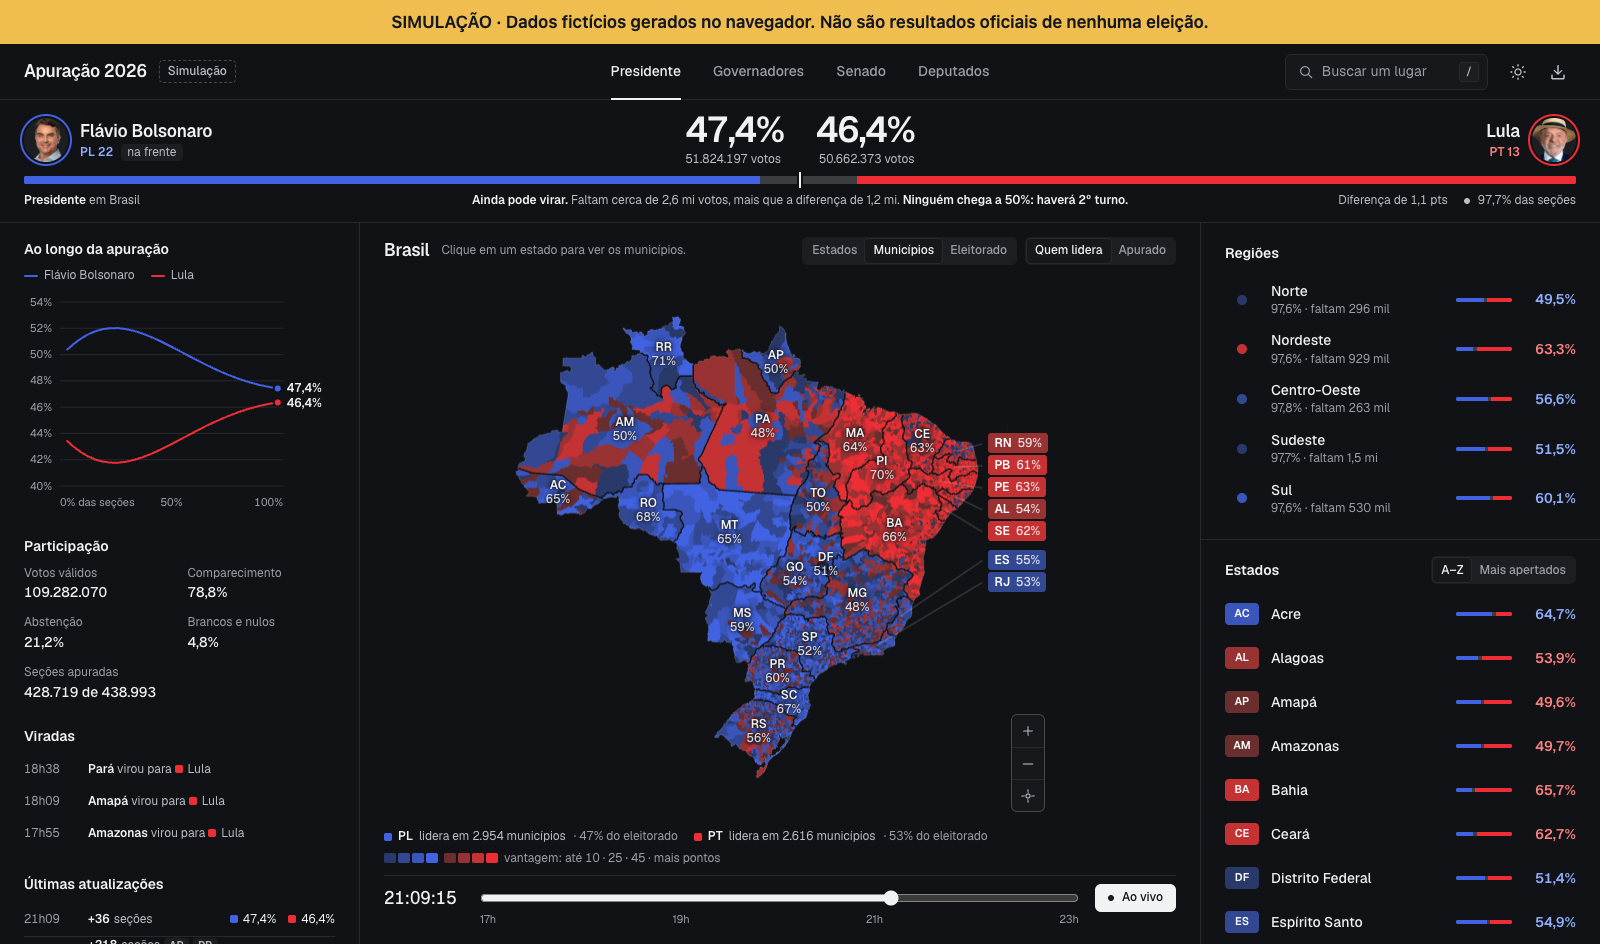
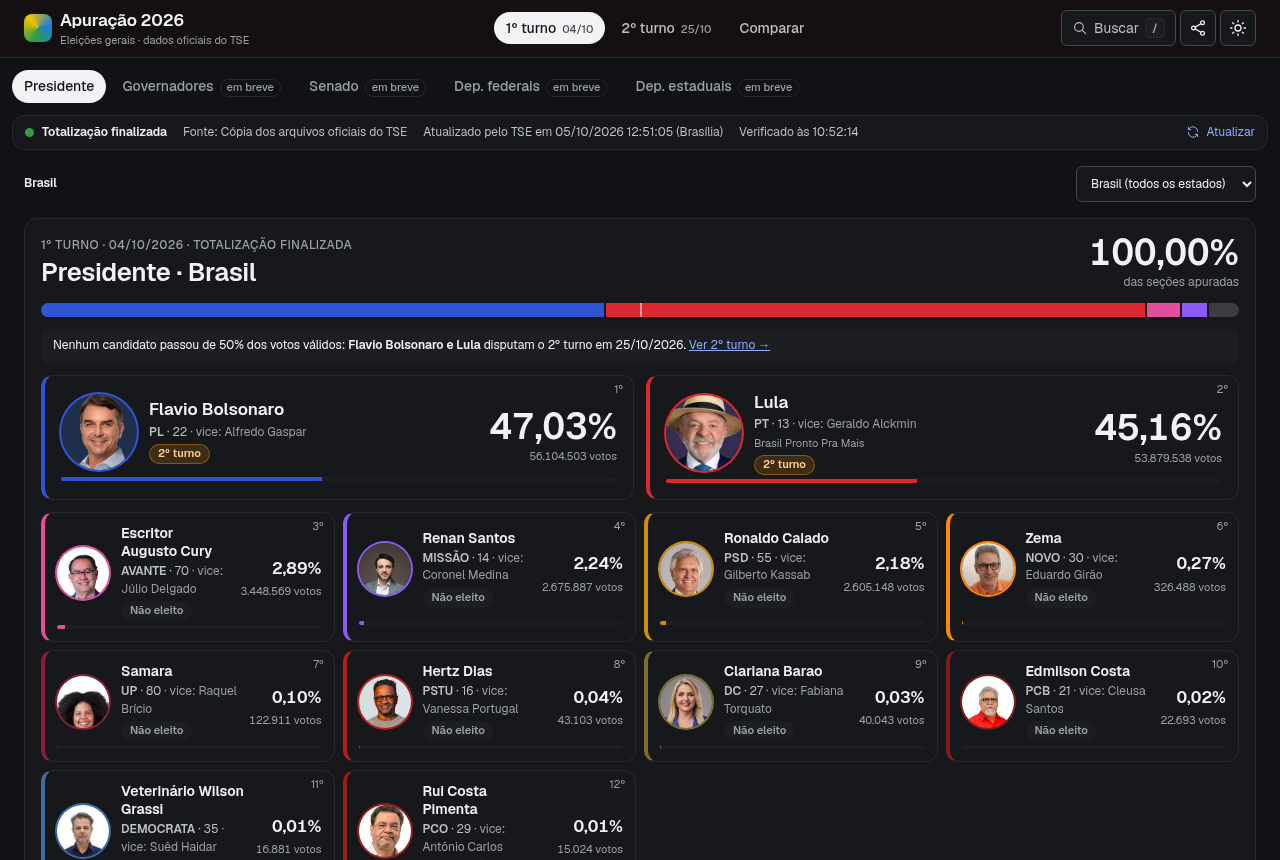
Publicação: Pages com atualização opcional dos dados do TSE e README novo
- workflow pode baixar os dados antes do build (manual ou a cada 20 min na noite do 2º turno), sem commitar no git
- roda os testes antes de publicar
- scripts npm: dados, dados:2turno, verificar; preview na porta 8080

diff --git a/README.md b/README.md
@@ -1,128 +1,101 @@
-# open-apuracao-brazil
+# Apuração 2026
 
-![Painel de apuração com o mapa do Brasil por município, placar, gráfico da apuração e lista de estados](docs/screenshot.png)
+Site estático (GitHub Pages) com os **resultados oficiais das eleições gerais de 2026**, lidos dos arquivos públicos do
+Tribunal Superior Eleitoral em [resultados.tse.jus.br](https://resultados.tse.jus.br). Nada é estimado ou simulado:
+quando o TSE ainda não publicou um resultado, o site diz isso e não mostra números.
 
-Painel interativo de apuração eleitoral do Brasil: um mapa navegável por estado, município e zona eleitoral, com placar, linha do tempo e andamento da contagem.
+Publicado em: https://alexandreprass.github.io/apuracao-tse-2026/
 
-> [!WARNING]
-> **Todos os resultados são simulados.** Votos, percentuais, comparecimento e ritmo de apuração são gerados no navegador por um modelo determinístico. O projeto não consulta o TSE nem qualquer serviço eleitoral, e nada aqui representa o resultado de uma eleição real. Os nomes de candidatos servem só para dar forma à interface.
+## O que tem (etapa 1 · Presidente)
 
-## O que tem
+- **1º turno (04/10/2026)** com os números oficiais finais: votos e percentual de cada um dos 12 candidatos, foto, número,
+  partido, coligação, vice e situação (2º turno / não eleito).
+- **Apuração e participação:** % de seções apuradas, eleitorado, comparecimento, abstenção, válidos, brancos e nulos.
+- **Mapa interativo** do Brasil por estado e, dentro de cada estado, por município (5.570 municípios), colorido pelo partido
+  de quem lidera e pela vantagem, ou pelo % apurado. Clique num estado ou município para abrir o resultado dele.
+- **Tabelas** por estado (com o **exterior separado**) e por município, com busca, filtro por região ou partido e ordenação.
+- **Votos por região**, estados vencidos por candidato.
+- **2º turno (25/10/2026)** pronto: mostra os finalistas, contagem regressiva e confere o TSE sozinho; quando sai o primeiro
+  boletim, os votos aparecem e passam a se atualizar a cada 30 s (com gráfico da evolução desde que a página foi aberta).
+- **Busca** (tecla `/`) por candidato, número, estado, município ou “exterior”; **compartilhar** (link + resumo);
+  **tema claro/escuro**; links diretos para qualquer recorte.
+- Governadores, Senado, Deputados e Comparações aparecem como “em breve” (próximas etapas). Os arquivos oficiais desses
+  cargos já são baixados pelo script de dados.
 
-- **Mapa em três níveis.** Brasil, os municípios de um estado e as zonas eleitorais de um município (as 57 da capital paulista, por exemplo). São 5.570 municípios desenhados em Canvas 2D, com zoom, arraste e pinça.
-- **Modos de mapa.** Recorte por estados, por municípios ou por eleitorado (um círculo por município, com área proporcional ao número de eleitores). Cor por quem lidera e com que vantagem, ou por quanto já foi apurado.
-- **Placar do recorte aberto.** Mostra sempre o lugar que você está vendo e responde "ainda pode virar?" comparando os votos que faltam com a diferença atual. Para presidente, diz também se haverá 2º turno.
-- **Linha do tempo.** Volte a qualquer minuto entre 17h e 23h, ou acompanhe "ao vivo" a simulação avançando.
-- **Andamento.** Gráfico do percentual de cada candidato conforme as seções entram, participação, estados que viraram de lado e os últimos boletins. Clicar num ponto do gráfico leva o mapa àquele momento.
-- **Busca** por estado ou município (tecla `/`), **tema claro e escuro** e **download do mapa** em PNG.
-- **Tudo na URL.** Lugar, cargo, horário e modo do mapa fazem parte do link, e o botão voltar do navegador sobe um nível no mapa.
-- **Responsivo.** Três colunas em telas largas, mapa e painel com abas em telas médias, e uma gaveta sobre o mapa no celular. No desktop a página não rola: o mapa ocupa a altura disponível.
+## Como os dados chegam
+
+| Turno | Fonte primária | Reserva |
+| --- | --- | --- |
+| 1º turno (finalizado) | cópia dos arquivos oficiais em `public/data/tse/1/` | TSE ao vivo |
+| 2º turno | TSE ao vivo (o servidor do TSE libera CORS para qualquer origem) | cópia em `public/data/tse/2/`, se existir |
+
+- Para forçar a fonte, use `?fonte=tse` ou `?fonte=local` no fim do endereço (ex.: `#/1turno/presidente?fonte=tse`).
+- Arquivos usados (padrão do TSE para 2026): `oficial/ele2026/<eleição>/dados/<uf>/<uf>-c<cargo>-e<eleição>-u.json`.
+  Eleições: 6257 (presidente, 1º turno), 6258 (presidente, 2º turno), 6259/6260 (cargos estaduais). Cargos: 1 presidente,
+  3 governador, 5 senador, 6 dep. federal, 7 dep. estadual, 8 dep. distrital. Fotos: `.../6257/fotos/br/<sqcand>.jpeg`.
+- Antes de pedir os resultados de um turno, o site consulta `oficial/comum/config/ele-c.json` para saber se o TSE já
+  configurou aquela eleição (evita dezenas de pedidos com erro 404).
+- O horário exibido (“Atualizado pelo TSE em…”) é o da última totalização informada pelo TSE, em horário de Brasília.
+
+### Atualizar a cópia local
+
+```sh
+npm run dados          # 1º turno: todos os cargos + presidente por município (~5.600 arquivos, ~2 min)
+npm run dados:2turno   # 2º turno (presidente e governadores), quando o TSE publicar
+npm run verificar      # compara a cópia com o TSE ao vivo (Brasil, exterior, 6 UFs, 4 capitais) e com as somas
+```
+
+O workflow `.github/workflows/pages.yml` também pode rodar o download antes de publicar: manualmente (campo
+“atualizar_dados”) e automaticamente na noite do 2º turno, a cada 20 minutos (no máximo 3 publicações por hora). Os dados
+vão só no artefato publicado; **nada é commitado no git**, para o histórico não crescer.
 
 ## Como rodar
 
-Requisitos: [Node.js](https://nodejs.org) 20.19 ou mais recente (exigência do Vite 7) e npm.
+Requisitos: Node.js 20.19+ e npm.
 
 ```sh
-git clone https://github.com/bpinheiroms/open-apuracao-brazil.git
-cd open-apuracao-brazil
-npm install
-npm run dev
+npm ci
+npm run dev        # desenvolvimento: http://127.0.0.1:5173/apuracao-tse-2026/
+npm test           # testes (Node, sem navegador)
+npm run build      # gera o site em dist/
+npm run preview    # serve dist/ em http://127.0.0.1:8080/apuracao-tse-2026/
 ```
 
-O Vite imprime o endereço local, normalmente http://127.0.0.1:5173. Não há variáveis de ambiente, chaves de API nem backend: depois de carregar os arquivos de `public/`, tudo roda no navegador.
+O caminho base `/apuracao-tse-2026/` (de `vite.config.js`) é o mesmo do GitHub Pages.
 
-| Comando | O que faz |
-| --- | --- |
-| `npm run dev` | Servidor de desenvolvimento com recarga automática |
-| `npm run build` | Gera o site estático em `dist/` |
-| `npm run preview` | Serve o conteúdo de `dist/` para conferência |
-| `npm test` | Roda os testes com o executor nativo do Node |
-
-O resultado de `npm run build` é um site estático e pode ser publicado em qualquer hospedagem de arquivos. Os caminhos são absolutos (`/data/...`, `/fonts/...`), então o site precisa ficar na raiz do domínio; para publicar numa subpasta, configure `base` no Vite.
-
-## Como usar
-
-- Clique em um estado para abrir seus municípios e em um município para abrir o recorte dele. O botão com seta acima do mapa, a tecla `Esc` e o voltar do navegador sobem um nível.
-- Acima do mapa ficam os controles de recorte (Estados, Municípios, Eleitorado) e de cor (Quem lidera, Apurado).
-- Arraste para mover. Use `+`/`−`, a roda do mouse ou a pinça para aproximar.
-- Arraste a linha do tempo para mudar o horário; "Ao vivo" volta à simulação em andamento.
-- `/` abre a busca; setas e `Enter` escolhem um resultado.
-
-### Formato da URL
+## Endereços
 
 ```
-/#SP/3550308/12?cargo=senado&hora=20h15&mapa=municipios&cor=apurado
+#/1turno/presidente                 Brasil
+#/1turno/presidente/SP              São Paulo e seus municípios
+#/1turno/presidente/SP/3550308      município (código IBGE)
+#/1turno/presidente/ZZ              exterior
+#/2turno/presidente                 2º turno
+#/sobre                             sobre os dados
 ```
-
-| Parte | Significado | Padrão |
-| --- | --- | --- |
-| `SP` | Estado aberto (sigla da UF) | Brasil |
-| `3550308` | Município aberto (código do IBGE) | nenhum |
-| `12` | Zona eleitoral selecionada | nenhuma |
-| `cargo` | `presidente`, `governadores`, `senado` ou `deputados` | `presidente` |
-| `hora` | Horário da linha do tempo, de `17h00` a `23h00` | ao vivo |
-| `mapa` | `estados`, `municipios` ou `eleitorado` | `estados` |
-| `cor` | `lider` ou `apurado` | `lider` |
-
-## Como a simulação funciona
-
-Os números saem de `src/data/mocks.js`, sem aleatoriedade: o mesmo cargo e o mesmo minuto produzem sempre o mesmo resultado.
-
-- Cada estado tem um percentual-alvo para o primeiro candidato. Os municípios variam em torno dele a partir de um hash do código do município, e uma calibração ajusta o conjunto até o estado bater no alvo.
-- A apuração segue uma curva que avança rápido no começo e tem uma cauda longa. Cada município conta num ritmo próprio, e cerca de 1 em 14 atrasa bastante.
-- As primeiras seções pendem para um dos lados e essa inclinação some até o fim da contagem. É o que dá movimento ao gráfico e faz alguns estados virarem.
-- Os totais se conservam: a soma das zonas dá o município, a dos municípios dá o estado, e a dos estados dá o Brasil. Os testes verificam isso.
-- As quatro abas de cargo são cenários diferentes do mesmo modelo, com os mesmos dois candidatos. Não representam candidaturas reais para cada cargo.
-
-As zonas eleitorais são **áreas aproximadas** a partir dos locais de votação, dentro dos limites municipais. Não são limites oficiais do TSE.
 
 ## Organização do código
 
-Preact com [htm](https://github.com/developit/htm) (sem JSX nem etapa de compilação de templates), CSS puro e Canvas 2D, empacotados com Vite.
-
 ```
-index.html             página única; aplica o tema antes da primeira pintura
-src/
-  main.js              carrega a geometria e monta o app (ou a tela de erro)
-  App.js               estado da página e composição das áreas
-  components/          TopBar, Scoreboard, MapStage, MapModes, Legend, Timeline, Insights,
-                       TrendChart, UpdatesFeed, SidePanel, PlaceRow, BackButton, SearchDialog, Icon
-  hooks/               useRoute (URL), useClock, useHistory (parciais anteriores), useTheme,
-                       useHotkey, useMediaQuery, useWidth
-  map/                 ElectionMap (desenho, clique, zoom), geography (TopoJSON e câmeras),
-                       mapTheme (cores do canvas), exportMap (PNG)
-  data/                mocks (resultados e cores), history (série, boletins, viradas),
-                       outlook ("ainda pode virar?"), clock
-  lib/                 formatação pt-BR e o binding do htm
-  styles/              tokens, base, layout, components, map
-public/
-  data/                brasil.topo.json (municípios) e zonas.json (zonas eleitorais)
-  fonts/, images/      fonte Geist e retratos
-tests/                 geometria, conservação dos votos, linha do tempo, câmeras, projeção
+src/config.js            códigos das eleições, cargos, URLs do TSE, modo da fonte, intervalos de atualização
+src/data/normalize.js    converte os JSON do TSE num formato enxuto (usado pelo site e pelo script)
+src/data/source.js       carrega do TSE ou da cópia local, com reserva
+src/data/analysis.js     contas derivadas (regiões, estados vencidos, mapa, finalistas)
+src/hooks/useData.js     carregamento + atualização automática (30 s ao vivo; 1–5 min aguardando)
+src/views/Majoritarian.js página de presidente (e base para governador/senado)
+src/components/          cabeçalho, barra de status, cartões, mapa, tabelas, busca, gráfico
+src/map/                 mapa em Canvas 2D (geografia IBGE em TopoJSON)
+scripts/fetch-tse.mjs    baixa os arquivos oficiais para public/data/tse
+scripts/verify-tse.mjs   confere a cópia com o TSE
 ```
 
-Algumas decisões que ajudam a ler o código:
-
-- **O mapa é um canvas, os rótulos são HTML.** `ElectionMap` desenha os polígonos e testa cliques com `isPointInPath`; as siglas dos estados são botões posicionados por cima, para funcionarem com teclado e leitor de tela.
-- **A URL é a fonte da verdade.** `useRoute` lê e escreve lugar, cargo, horário e modo do mapa. Mudar de lugar cria uma entrada no histórico; o resto só reescreve a entrada atual.
-- **Três layouts**, descritos no topo de `src/styles/layout.css`: três colunas a partir de 1440px, mapa e painel com abas entre 1000px e 1439px, e gaveta inferior abaixo disso.
-- **Dois temas.** As cores da interface são tokens em `src/styles/tokens.css`. O canvas não lê CSS, então `src/map/mapTheme.js` espelha o fundo e define os traços de cada tema.
-- **Parciais anteriores sob demanda.** Cada ponto do gráfico exige recontar o país inteiro, então `useHistory` calcula um por vez depois da primeira pintura e guarda o resultado por cargo.
-
-## Testes
-
-```sh
-npm test
-```
-
-Os testes rodam em Node, sem navegador, e cobrem: a geometria (5.570 municípios, 27 estados, 57 zonas na capital paulista), a conservação dos votos entre os níveis, o determinismo da linha do tempo, o enquadramento das câmeras, a projeção do que falta apurar e a contagem de lugares por candidato. O desenho no canvas e a interação são conferidos manualmente no navegador.
+Preact + htm (sem etapa de compilação de templates), CSS puro e Canvas 2D, empacotados com Vite. ~31 kB de JS gzip.
 
 ## Créditos
 
-- **Malha municipal:** [IBGE](https://www.ibge.gov.br/geociencias/organizacao-do-territorio/malhas-territoriais.html), simplificada e convertida para TopoJSON.
-- **Arquivos de dados e retratos:** `public/data/brasil.topo.json`, `public/data/zonas.json` e as imagens em `public/images/` foram obtidos de [seuimposto.com](https://seuimposto.com/) e não são de autoria deste projeto. Confira os direitos de uso antes de redistribuí-los.
-- **Fonte:** [Geist](https://vercel.com/font), da Vercel, sob a SIL Open Font License.
-
-## Licença
-
-O código deste repositório está sob a licença [MIT](LICENSE). Os arquivos listados em Créditos pertencem aos respectivos autores e não são cobertos por ela.
+- Resultados e fotos: [Tribunal Superior Eleitoral](https://resultados.tse.jus.br). Site independente, sem vínculo com o TSE;
+  em caso de divergência, vale o resultado publicado pelo TSE.
+- Malha municipal: [IBGE](https://www.ibge.gov.br/geociencias/organizacao-do-territorio/malhas-territoriais.html), simplificada
+  em TopoJSON (`public/data/brasil.topo.json`, herdado do projeto original, que a obteve de seuimposto.com).
+- Base do mapa interativo: projeto [open-apuracao-brazil](https://github.com/bpinheiroms/open-apuracao-brazil) (MIT).
+- Fonte: [Geist](https://vercel.com/font), SIL Open Font License.
